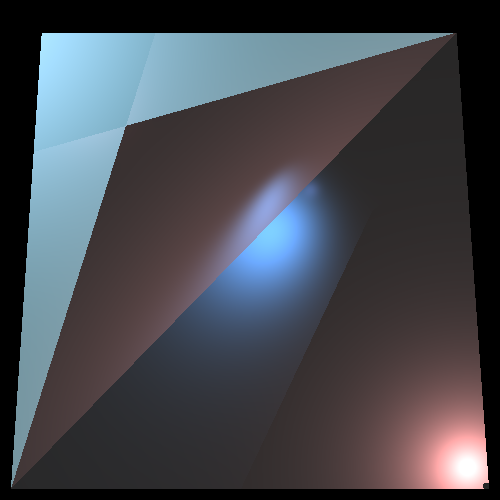
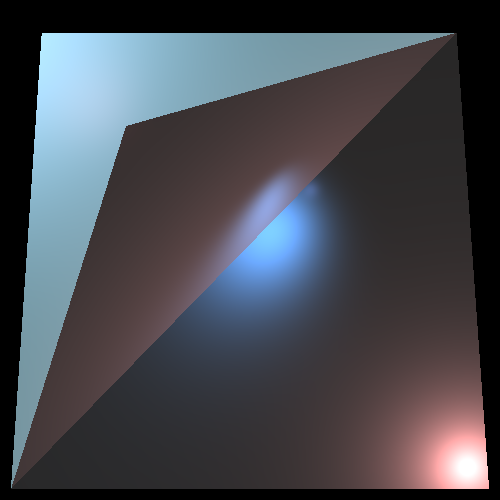
stage 7: Beginning of tests

diff --git a/unitTests/renderer/ShadowTests.java b/unitTests/renderer/ShadowTests.java
@@ -1,0 +1,146 @@
+package renderer;
+
+import org.junit.jupiter.api.Test;
+
+import static java.awt.Color.*;
+
+import geometries.*;
+import lighting.*;
+import primitives.*;
+import renderer.*;
+import scene.Scene;
+
+/**
+ * Testing basic shadows
+ *
+ * @author Dan
+ */
+public class ShadowTests {
+    private Intersectable sphere = new Sphere(new Point(0, 0, -200), 60d)                                         //
+            .setEmission(new Color(BLUE))                                                                                  //
+            .setMaterial(new Material().setKd(0.5).setKs(0.5).setShininess(30));
+    private Material trMaterial = new Material().setKd(0.5).setKs(0.5).setShininess(30);
+
+    private Scene scene;//      = new Scene.SceneBuilder("Test scene").build();
+   private Camera camera; //= new Camera(
+//            new Point(0, 0, 1000),
+//            new Vector(0, 0, -1),
+//            new Vector(0, 1, 0))
+//            .setVPSize(200, 200)
+//            .setVPDistance(1000)
+//            .setRayTracer(new RayTracerBasic(scene));
+
+    /**
+     * Helper function for the tests in this module
+     */
+    void sphereTriangleHelper(String pictName, Triangle triangle, Point spotLocation) {
+
+        Geometries geometries = new Geometries(
+                sphere,
+                triangle.setEmission(new Color(BLUE)).setMaterial(trMaterial)
+        );
+
+        scene = new Scene.SceneBuilder("Test scene")
+                .setGeometries(geometries)
+                .setLights(
+                        new SpotLight(
+                                new Color(400, 240, 0),
+                                spotLocation,
+                                new Vector(1, 1, -3))
+                                .setKl(1E-5).setKq(1.5E-7))
+                .build();
+
+//      scene.geometries.add(sphere, triangle.setEmission(new Color(BLUE)).setMaterial(trMaterial));
+//      scene.lights.add( //
+//                       new SpotLight(new Color(400, 240, 0), spotLocation, new Vector(1, 1, -3))
+//                          .setKl(1E-5).setKq(1.5E-7));
+
+        camera = new Camera(
+                new Point(0, 0, 1000),
+                new Vector(0, 0, -1),
+                new Vector(0, 1, 0))
+                .setVPSize(200, 200)
+                .setVPDistance(1000)
+                .setRayTracer(new RayTracerBasic(scene));
+
+        camera.setImageWriter(new ImageWriter(pictName, 400, 400))
+                .renderImage()
+                .writeToImage();
+    }
+
+    /**
+     * Produce a picture of a sphere and triangle with point light and shade
+     */
+    @Test
+    public void sphereTriangleInitial() {
+        sphereTriangleHelper("shadowSphereTriangleInitial",
+                new Triangle(
+                        new Point(-70, -40, 0),
+                        new Point(-40, -70, 0),
+                        new Point(-68, -68, -4)
+                ),
+                new Point(-100, -100, 200));
+    }
+
+//   /**
+//	 * Sphere-Triangle shading - move triangle up-right
+//	 */
+//	@Test
+//	public void sphereTriangleMove1() {
+//		sphereTriangleHelper("shadowSphereTriangleMove2", //
+//				new Triangle(new Point(???, ???, ???), new Point(???, ???, ???), new Point(???, ???, ???)), //
+//				new Point(-100, -100, 200));
+//	}
+//
+//   /**
+//	 * Sphere-Triangle shading - move triangle upper-righter
+//	 */
+//	@Test
+//	public void sphereTriangleMove2() {
+//		sphereTriangleHelper("shadowSphereTriangleMove1", //
+//		      new Triangle(new Point(???, ???, ???), new Point(???, ???, ???), new Point(???, ???, ???)), //
+//				new Point(-100, -100, 200));
+//	}
+//
+//   /** Sphere-Triangle shading - move spot closer */
+//   @Test
+//   public void sphereTriangleSpot1() {
+//      sphereTriangleHelper("shadowSphereTriangleSpot1", //
+//                           new Triangle(new Point(-70, -40, 0), new Point(-40, -70, 0), new Point(-68, -68, -4)), //
+//                           new Point(???, ???, ???));
+//   }
+//
+//   /** Sphere-Triangle shading - move spot even more close */
+//   @Test
+//   public void sphereTriangleSpot2() {
+//      sphereTriangleHelper("shadowSphereTriangleSpot2", //
+//                           new Triangle(new Point(-70, -40, 0), new Point(-40, -70, 0), new Point(-68, -68, -4)), //
+//                           new Point(???, ???, ???));
+//   }
+
+//   /** Produce a picture of a two triangles lighted by a spot light with a Sphere
+//    * producing a shading */
+//   @Test
+//   public void trianglesSphere() {
+//      scene.setAmbientLight(new AmbientLight(new Color(WHITE), 0.15));
+//
+//      scene.geometries.add( //
+//                           new Triangle(new Point(-150, -150, -115), new Point(150, -150, -135),
+//                                        new Point(75, 75, -150)) //
+//                              .setMaterial(new Material().setKs(0.8).setShininess(60)), //
+//                           new Triangle(new Point(-150, -150, -115), new Point(-70, 70, -140), new Point(75, 75, -150)) //
+//                              .setMaterial(new Material().setKs(0.8).setShininess(60)), //
+//                           new Sphere(new Point(0, 0, -11), 30d) //
+//                              .setEmission(new Color(BLUE)) //
+//                              .setMaterial(new Material().setKd(0.5).setKs(0.5).setShininess(30)) //
+//      );
+//      scene.lights.add( //
+//                       new SpotLight(new Color(700, 400, 400), new Point(40, 40, 115), new Vector(-1, -1, -4)) //
+//                          .setKl(4E-4).setKq(2E-5));
+//
+//      camera.setImageWriter(new ImageWriter("shadowTrianglesSphere", 600, 600)) //
+//         .renderImage() //
+//         .writeToImage();
+//   }
+
+}

diff --git a/src/renderer/RayTracerBasic.java b/src/renderer/RayTracerBasic.java
@@ -22,23 +22,22 @@ public class RayTracerBasic extends RayTracerBase {
     private static final double DELTA = 0.1;
 
 
-    private boolean unshaded(GeoPoint gp, Vector l) {
+//    private boolean unshaded(GeoPoint gp, Vector l, double distance) {
+//        Vector lightDirection = l.scale(-1); // from point to light source
+//        Ray lightRay = new Ray(gp.point, lightDirection);
+//        List<GeoPoint> intersections = scene.getGeometries().findGeoIntersections(lightRay, distance);
+//        return intersections == null ? true : false;
+//    }
+
+    private boolean unshaded(GeoPoint gp, LightSource light, Vector l,  Vector n, double nl) {
         Vector lightDirection = l.scale(-1); // from point to light source
-        Ray lightRay = new Ray(gp.point, lightDirection);
-        List<GeoPoint> intersections = scene.getGeometries().findGeoIntersections(lightRay);
+        Vector epsVector = n.scale(nl < 0 ? DELTA : -DELTA);//(-1)
+
+        Point point = gp.point.add(epsVector);
+        Ray lightRay = new Ray(point, lightDirection);
+        List<GeoPoint> intersections = scene.getGeometries().findGeoIntersections(lightRay, light.getDistance(gp.point));
         return intersections == null ? true : false;
     }
-
-//    private boolean unshaded(GeoPoint gp, LightSource light, Vector l, Vector n, double nl)
-//    {
-//        Vector lightDirection = l.scale(-1); // from point to light source
-//        Vector epsVector = n.scale(nl < 0 ? DELTA : -DELTA);
-//        Point point = gp.point.add(epsVector);
-//        Ray lightRay = new Ray(point, lightDirection);
-//        List<GeoPoint> intersections = scene.getGeometries().findGeoIntersections(lightRay);
-//        if (intersections == null) return true;
-//
-//    }
 
 
 
@@ -104,7 +103,7 @@ public class RayTracerBasic extends RayTracerBase {
             double nl = alignZero(n.dotProduct(l));
 
             // If the signs of nl and nv are the same, calculate the diffuse and specular effects
-            if (nl * nv > 0 && unshaded(gp, l)) { // sign(nl) == sing(nv)
+            if (nl * nv > 0 && unshaded(gp, lightSource, l, n, nl)) { // sign(nl) == sing(nv)
 
                 // Get the intensity of the light source at the geometric point
                 Color iL = lightSource.getIntensity(gp.point);
